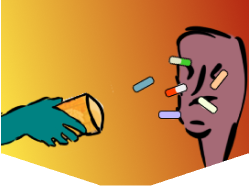
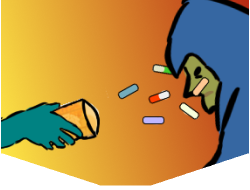
v1.2
Aoe attacks now work with autoplay.
Shield of Shards reworked.
Growth Spurt description crash attempted fix.
Multivitamins art updated.
Innate and Ethereal and Energy description clean ups.
Cheese Wheel image updated.

diff --git a/BasicMod-master/BasicMod-master/src/main/java/dannyandjannymod/powers/ShieldOfShardsPower.java b/BasicMod-master/BasicMod-master/src/main/java/dannyandjannymod/powers/ShieldOfShardsPower.java
@@ -2,27 +2,28 @@ package dannyandjannymod.powers;
 
 import com.badlogic.gdx.graphics.Texture;
 import com.badlogic.gdx.graphics.g2d.TextureAtlas;
+import com.evacipated.cardcrawl.mod.stslib.powers.interfaces.BetterOnApplyPowerPower;
 import com.megacrit.cardcrawl.actions.common.ApplyPowerAction;
-import com.megacrit.cardcrawl.actions.common.MakeTempCardInHandAction;
-import com.megacrit.cardcrawl.cards.AbstractCard;
 import com.megacrit.cardcrawl.characters.AbstractPlayer;
 import com.megacrit.cardcrawl.core.AbstractCreature;
 import com.megacrit.cardcrawl.dungeons.AbstractDungeon;
+import com.megacrit.cardcrawl.monsters.AbstractMonster;
 import com.megacrit.cardcrawl.powers.AbstractPower;
-import dannyandjannymod.CardWithTagGenerationAction;
-import dannyandjannymod.CustomTags;
+import com.megacrit.cardcrawl.powers.MetallicizePower;
+import com.megacrit.cardcrawl.powers.PlatedArmorPower;
+import com.megacrit.cardcrawl.powers.ThornsPower;
 import dannyandjannymod.util.TextureLoader;
 
-public class GrowthSpurtPower extends AbstractPower {
-    public static final String POWER_ID = "GrowthSpurtPower";
+public class ShieldOfShardsPower extends AbstractPower implements BetterOnApplyPowerPower {
+    public static final String POWER_ID = "ShieldOfShardsPower";
     public static final String NAME;
 
-
-    public GrowthSpurtPower(AbstractCreature owner, int cardAmount) {
+    public ShieldOfShardsPower(AbstractCreature owner, int amount) {
         this.name = NAME;
-        this.ID = "GrowthSpurtPower";
+        this.ID = "ShieldOfShardsPower";
         this.owner = owner;
-        this.amount = cardAmount;
+        this.amount = amount;
+        this.type = PowerType.BUFF;
         this.updateDescription();
         this.loadRegion("confusion");
 
@@ -42,15 +43,6 @@ public class GrowthSpurtPower extends AbstractPower {
         }
     }
 
-    public void atStartOfTurn() {
-        if (!AbstractDungeon.getMonsters().areMonstersBasicallyDead()) {
-            this.flash();
-
-            AbstractPlayer p = AbstractDungeon.player;
-            this.addToBot(new ApplyPowerAction(p, p, new CalciumPower(p, this.amount), this.amount));
-        }
-    }
-
     public void stackPower(int stackAmount) {
         this.fontScale = 8.0F;
         this.amount += stackAmount;
@@ -58,14 +50,25 @@ public class GrowthSpurtPower extends AbstractPower {
 
     public void updateDescription() {
         //this.description = DESCRIPTIONS[0] + this.amount + DESCRIPTIONS[1];
-        this.description = "At the start of your turn, gain #b" + this.amount + " #yCalcium.";
+        this.description = "Whenever you gain Thorns, gain #b" + this.amount + " Plated Armor.";
     }
+
 
     static {
         //powerStrings = CardCrawlGame.languagePack.getPowerStrings("Magnetism");
         //NAME = powerStrings.NAME;
-        NAME = "Growth Spurt";
+        NAME = "Shield of Shards";
         //SINGULAR_DESCRIPTION = powerStrings.DESCRIPTIONS[0];
-        DESCRIPTIONS = new String[] {"At the start of your turn, gain #b", " #yCalcium."};
+        DESCRIPTIONS = new String[] {"", ""};
+    }
+
+    @Override
+    public boolean betterOnApplyPower(AbstractPower power, AbstractCreature target, AbstractCreature source) {
+        AbstractPlayer p = AbstractDungeon.player;
+        if (target == p && power instanceof ThornsPower) {
+            this.addToBot(new ApplyPowerAction(p, p, new PlatedArmorPower(p, amount)));
+            this.flash();
+        }
+        return true;
     }
 }

diff --git a/BasicMod-master/BasicMod-master/src/main/java/dannyandjannymod/powers/ShieldOfShardsUpgradedPower.java b/BasicMod-master/BasicMod-master/src/main/java/dannyandjannymod/powers/ShieldOfShardsUpgradedPower.java
@@ -2,27 +2,27 @@ package dannyandjannymod.powers;
 
 import com.badlogic.gdx.graphics.Texture;
 import com.badlogic.gdx.graphics.g2d.TextureAtlas;
+import com.evacipated.cardcrawl.mod.stslib.powers.interfaces.BetterOnApplyPowerPower;
 import com.megacrit.cardcrawl.actions.common.ApplyPowerAction;
-import com.megacrit.cardcrawl.actions.common.MakeTempCardInHandAction;
-import com.megacrit.cardcrawl.cards.AbstractCard;
 import com.megacrit.cardcrawl.characters.AbstractPlayer;
 import com.megacrit.cardcrawl.core.AbstractCreature;
 import com.megacrit.cardcrawl.dungeons.AbstractDungeon;
 import com.megacrit.cardcrawl.powers.AbstractPower;
-import dannyandjannymod.CardWithTagGenerationAction;
-import dannyandjannymod.CustomTags;
+import com.megacrit.cardcrawl.powers.MetallicizePower;
+import com.megacrit.cardcrawl.powers.PlatedArmorPower;
+import com.megacrit.cardcrawl.powers.ThornsPower;
 import dannyandjannymod.util.TextureLoader;
 
-public class GrowthSpurtPower extends AbstractPower {
-    public static final String POWER_ID = "GrowthSpurtPower";
+public class ShieldOfShardsUpgradedPower extends AbstractPower implements BetterOnApplyPowerPower {
+    public static final String POWER_ID = "ShieldOfShardsUpgradedPower";
     public static final String NAME;
 
-
-    public GrowthSpurtPower(AbstractCreature owner, int cardAmount) {
+    public ShieldOfShardsUpgradedPower(AbstractCreature owner, int amount) {
         this.name = NAME;
-        this.ID = "GrowthSpurtPower";
+        this.ID = "ShieldOfShardsUpgradedPower";
         this.owner = owner;
-        this.amount = cardAmount;
+        this.amount = amount;
+        this.type = PowerType.BUFF;
         this.updateDescription();
         this.loadRegion("confusion");
 
@@ -42,15 +42,6 @@ public class GrowthSpurtPower extends AbstractPower {
         }
     }
 
-    public void atStartOfTurn() {
-        if (!AbstractDungeon.getMonsters().areMonstersBasicallyDead()) {
-            this.flash();
-
-            AbstractPlayer p = AbstractDungeon.player;
-            this.addToBot(new ApplyPowerAction(p, p, new CalciumPower(p, this.amount), this.amount));
-        }
-    }
-
     public void stackPower(int stackAmount) {
         this.fontScale = 8.0F;
         this.amount += stackAmount;
@@ -58,14 +49,25 @@ public class GrowthSpurtPower extends AbstractPower {
 
     public void updateDescription() {
         //this.description = DESCRIPTIONS[0] + this.amount + DESCRIPTIONS[1];
-        this.description = "At the start of your turn, gain #b" + this.amount + " #yCalcium.";
+        this.description = "Whenever you gain Thorns, gain #b" + this.amount + " Metallicize.";
     }
+
 
     static {
         //powerStrings = CardCrawlGame.languagePack.getPowerStrings("Magnetism");
         //NAME = powerStrings.NAME;
-        NAME = "Growth Spurt";
+        NAME = "Shield of Shards+";
         //SINGULAR_DESCRIPTION = powerStrings.DESCRIPTIONS[0];
-        DESCRIPTIONS = new String[] {"At the start of your turn, gain #b", " #yCalcium."};
+        DESCRIPTIONS = new String[] {"", ""};
+    }
+
+    @Override
+    public boolean betterOnApplyPower(AbstractPower power, AbstractCreature target, AbstractCreature source) {
+        AbstractPlayer p = AbstractDungeon.player;
+        if (target == p && power instanceof ThornsPower) {
+            this.addToBot(new ApplyPowerAction(p, p, new MetallicizePower(p, amount)));
+            this.flash();
+        }
+        return true;
     }
 }

diff --git a/BasicMod-master/BasicMod-master/src/main/java/dannyandjannymod/cards/ShieldOfShardsCard.java b/BasicMod-master/BasicMod-master/src/main/java/dannyandjannymod/cards/ShieldOfShardsCard.java
@@ -10,6 +10,9 @@ import com.megacrit.cardcrawl.powers.IntangiblePlayerPower;
 import com.megacrit.cardcrawl.powers.MetallicizePower;
 import com.megacrit.cardcrawl.powers.PlatedArmorPower;
 import dannyandjannymod.AbstractCardEnum;
+import dannyandjannymod.powers.CattlePower;
+import dannyandjannymod.powers.ShieldOfShardsPower;
+import dannyandjannymod.powers.ShieldOfShardsUpgradedPower;
 import dannyandjannymod.util.CardInfo;
 
 import static dannyandjannymod.BasicMod.makeID;
@@ -24,12 +27,20 @@ public class ShieldOfShardsCard extends BaseCard {
             AbstractCardEnum.MILKMAN_WHITE);
 
     public static final String ID = makeID(cardInfo.baseId);
+    public static final int MAGIC = 1;
 
     public ShieldOfShardsCard() {
         super(cardInfo);
+        setMagic(MAGIC);
     }
 
     public void use(AbstractPlayer p, AbstractMonster m) {
+        if (!upgraded)
+            this.addToBot(new ApplyPowerAction(p, p, new ShieldOfShardsPower(p, this.magicNumber), this.magicNumber));
+        else
+            this.addToBot(new ApplyPowerAction(p, p, new ShieldOfShardsUpgradedPower(p, this.magicNumber), this.magicNumber));
+
+        /*
         if (p.getPower("Thorns") != null) {
             int thornsAmt = p.getPower("Thorns").amount;
             this.addToBot(
@@ -38,8 +49,10 @@ public class ShieldOfShardsCard extends BaseCard {
                             p,
                             upgraded ? new MetallicizePower(p, thornsAmt) : new PlatedArmorPower(p, thornsAmt),
                             thornsAmt));
-            this.addToBot(new RemoveSpecificPowerAction(p, p, "Thorns"));
+            //this.addToBot(new RemoveSpecificPowerAction(p, p, "Thorns"));
         }
+
+         */
     }
 
     @Override

diff --git a/BasicMod-master/BasicMod-master/src/main/java/dannyandjannymod/cards/MilkSplashCard.java b/BasicMod-master/BasicMod-master/src/main/java/dannyandjannymod/cards/MilkSplashCard.java
@@ -33,6 +33,7 @@ public class MilkSplashCard extends BaseCard {
         super(cardInfo);
         setDamage(DAMAGE, UPG_DAMAGE);
         setExhaust(true);
+        this.isMultiDamage = true;
         this.tags.add(CustomTags.MILK);
         cardsToPreview = new EmptyBottleCard();
     }

diff --git a/BasicMod-master/BasicMod-master/src/main/java/dannyandjannymod/cards/BucketSwingCard.java b/BasicMod-master/BasicMod-master/src/main/java/dannyandjannymod/cards/BucketSwingCard.java
@@ -33,6 +33,7 @@ public class BucketSwingCard extends BaseCard {
 
     public BucketSwingCard() {
         super(cardInfo);
+        this.isMultiDamage = true;
         setDamage(DAMAGE, UPG_DAMAGE);
         this.tags.add(CustomTags.BUCKET);
     }
